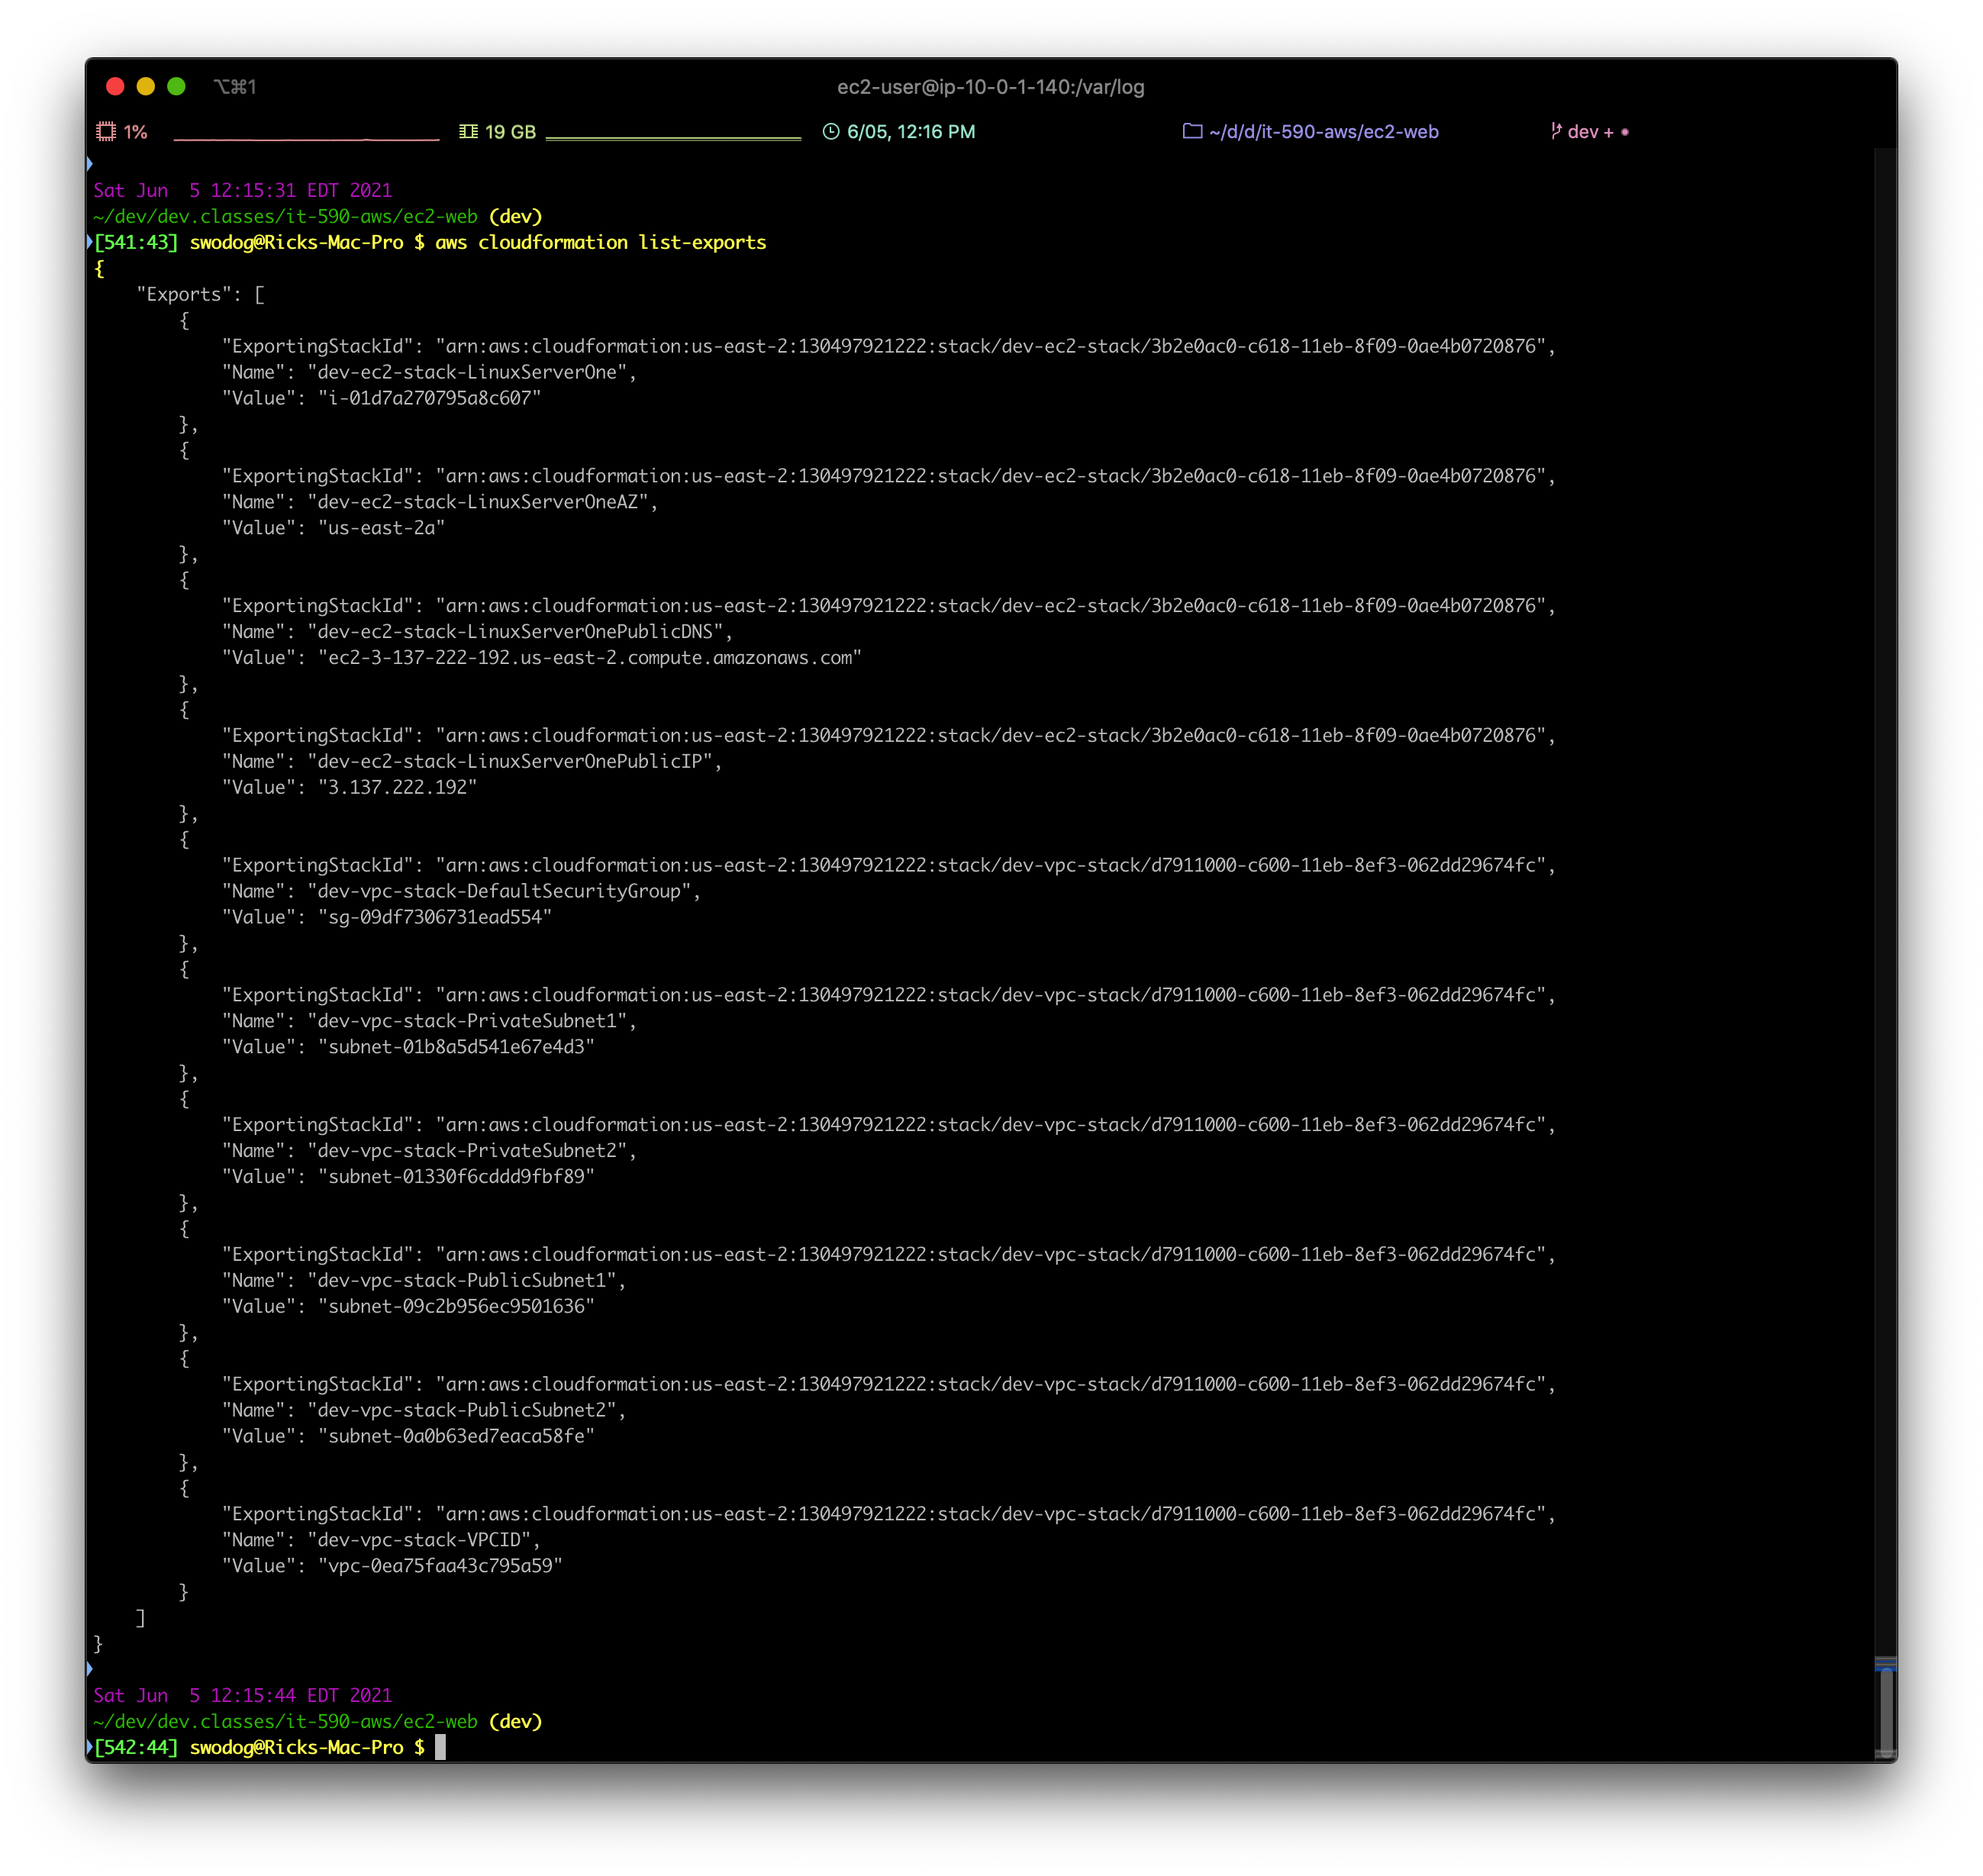
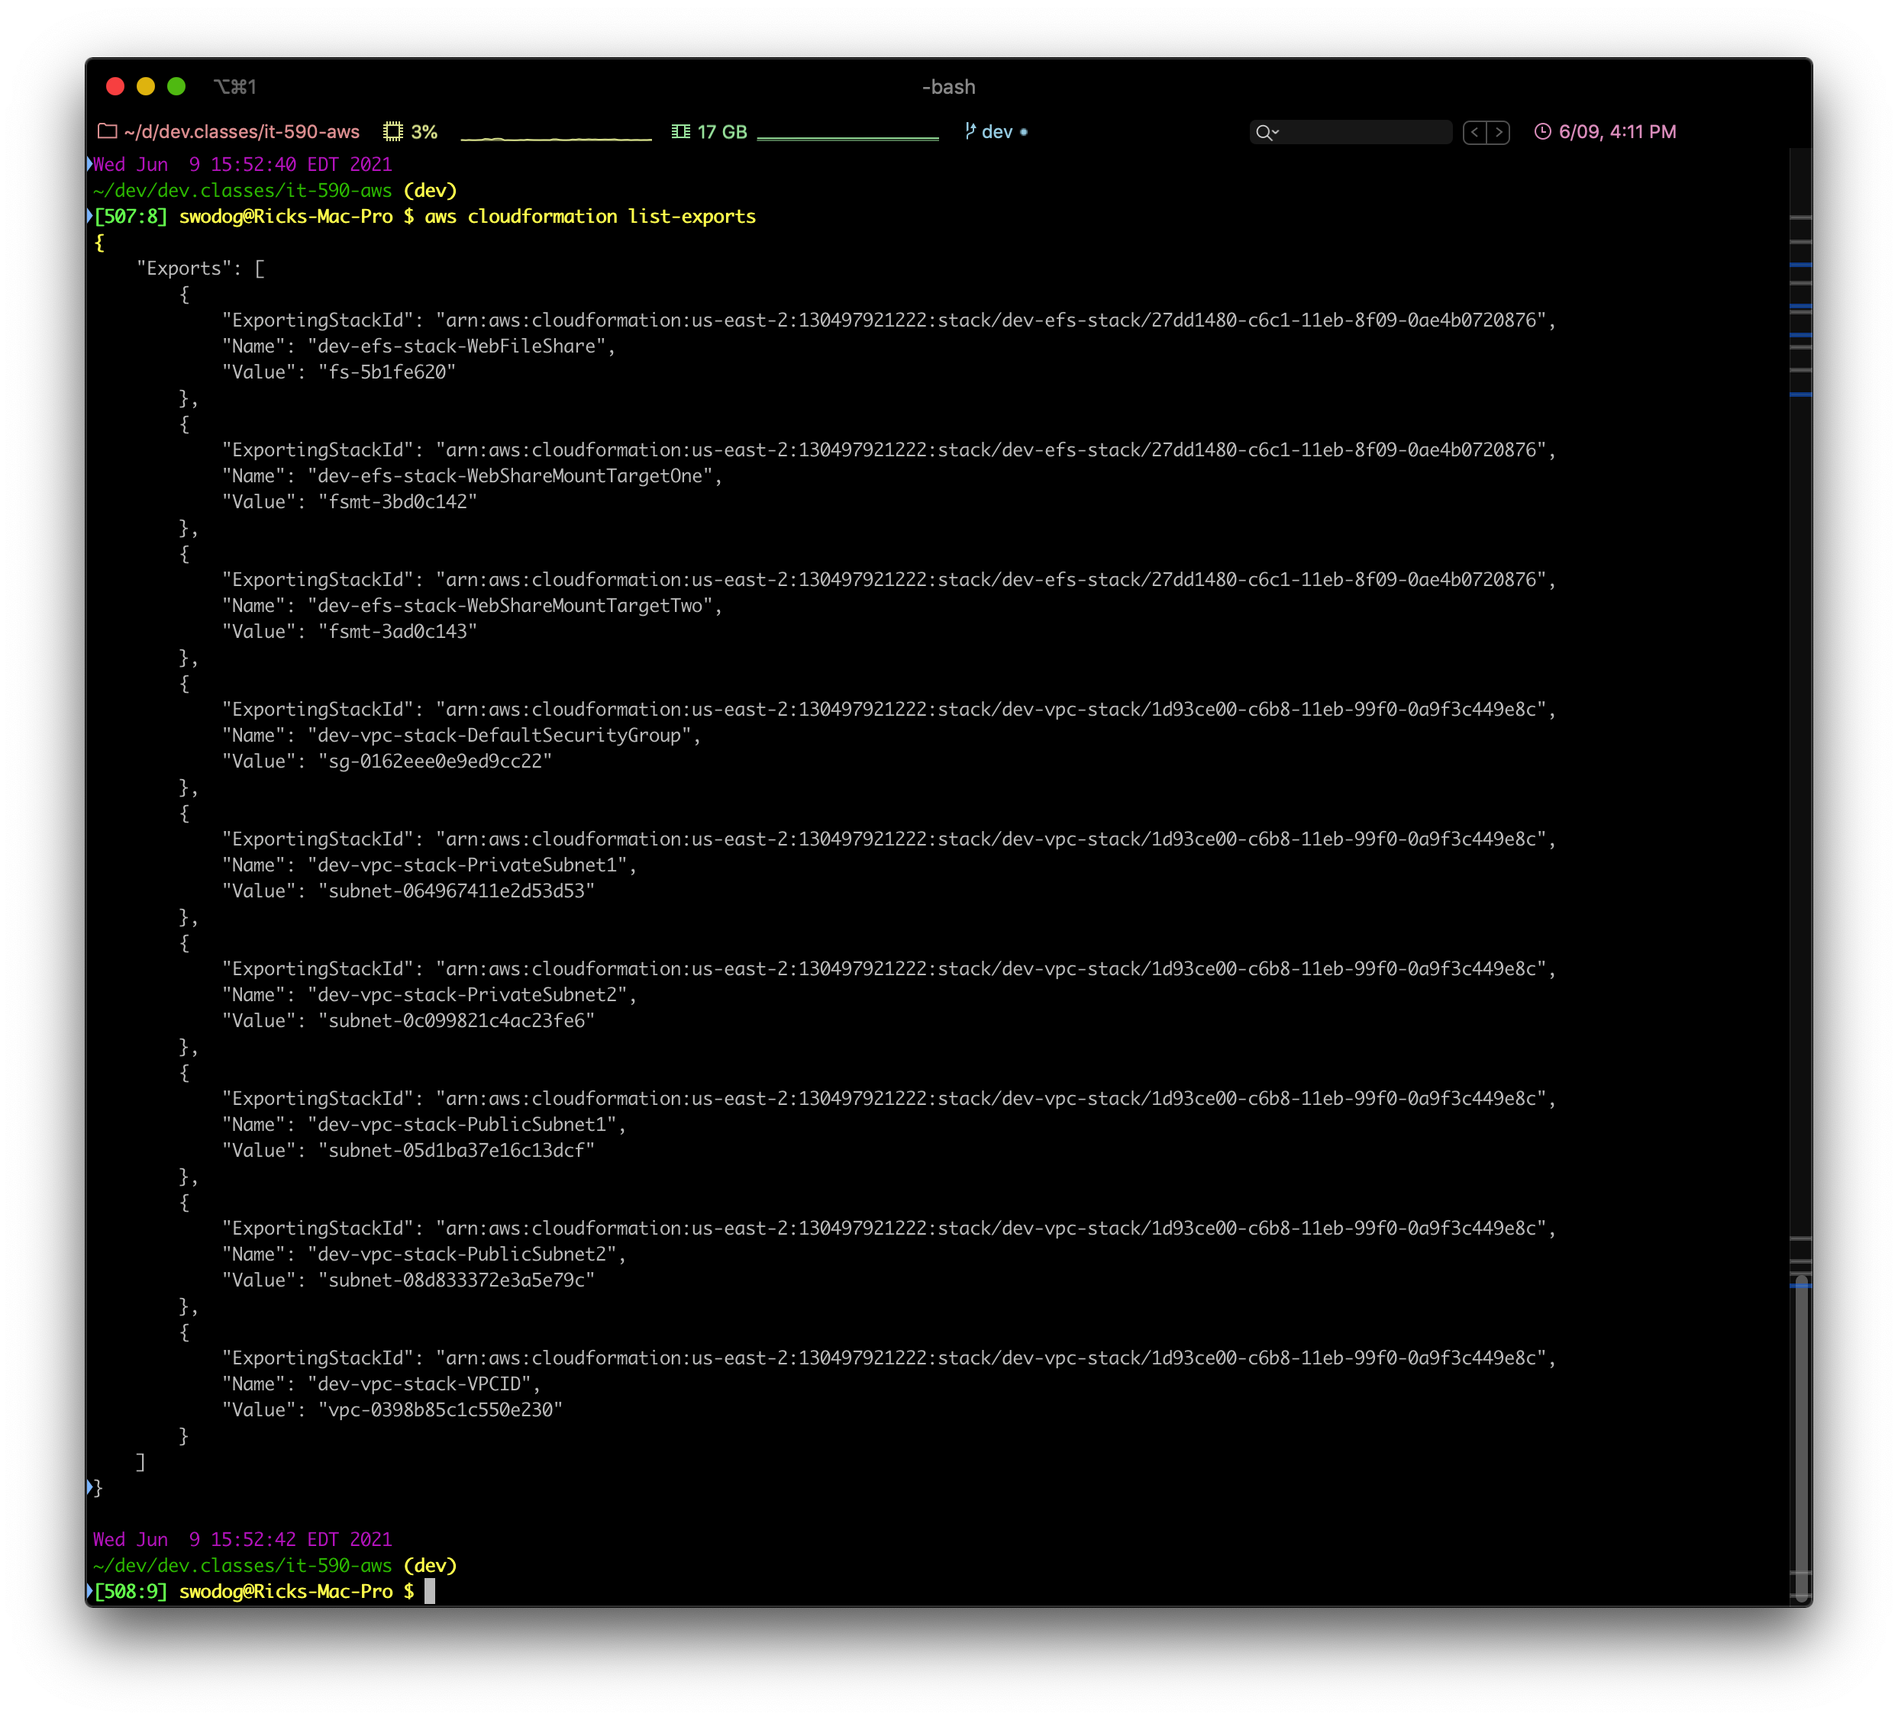
Worked EFS share between two web servers.

diff --git a/efs/webfiles/test.html b/efs/webfiles/test.html
@@ -4,7 +4,7 @@
 
 <head>
 <meta charset="utf-8">
-<title>The HTML5 Herald</title>
+<title>IT-590 EFS Demo</title>
 
 <style>
 #upper-body-div {
@@ -22,5 +22,3 @@
 </body>
 
 </html>
-
-

diff --git a/ec2-web-efs/README.md b/ec2-web-efs/README.md
@@ -1,11 +1,23 @@
-# EC2 Web Server Example
+# EC2 Web Server with EFS Example
 
 This AWS CloudFormation example deploys a Linux server into a public subnet in the custom (non-default) VPC created with the vpc example. It uses the EC2 UserData section to add bash shell instance initialization commands to install Apache and PHP.
 
+This example also demonstrates using Elastic File System (EFS) as a shared volume between multiple EC2 Web servers, and moving Apache document root to the webshare mount point. Again, examine the UserData sections of each EC2 Linux instance to see the code required to bootstrap the instance.
+
 ## Deploying
-From the command line run `./build.sh dev oh ec2` to deploy the ec2 dev stack into us-east-2. When the deployment script successfully completes, run `aws cloudformation list-exports` to list all stack exports. You output should be similar to, but not exactly as the following:
+
+Deploy the efs project first:
+
+<a href="../efs">efs</a>
+
+From the command line run `aws cloudformation list-exports` and verify the efs stack export name.
 
 <img src="diagrams/AWSExports.png"></img>
+
+Verify the correct efs stack-name in the ec2-web-efs build.sh file then deploy the web servers. 
+From the command line run `./build.sh dev oh ec2` to deploy the ec2 dev stack into us-east-2. When the deployment script successfully completes, run `aws cloudformation list-exports` to list all stack exports. You output should be similar to, but not exactly as the following:
+
+<img src="diagrams/AWSExports2.png"></img>
 
 ## Ping the Instance
 Search the list of exports for **dev-ec2-stack-LinuxServerOnePublicDNS** or **dev-ec2-stack-LinuxServerOnePublicIP** and copy the Value. In your terminal enter:
